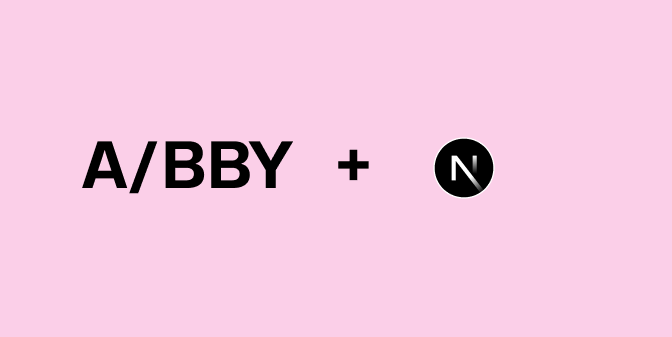
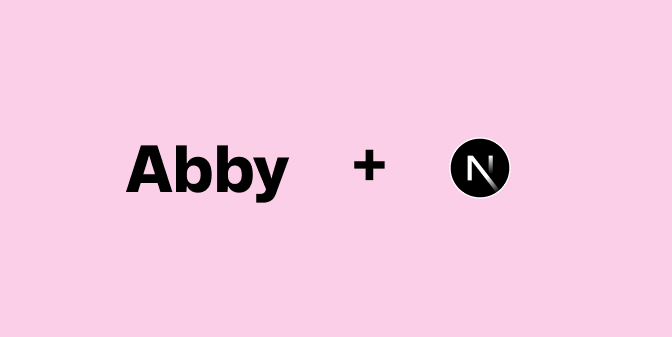
finish rebranding

Changed region(s): [[0.125, 0.4154, 0.4375, 0.6231], [0.625, 0.3858, 0.7812, 0.5935], [0.5, 0.4451, 0.5938, 0.5341]]

diff --git a/apps/web/src/seo/SeoDescriptions.ts b/apps/web/src/seo/SeoDescriptions.ts
@@ -20,39 +20,38 @@ export function getMarketingSeo(pageName: string): SeoProps {
   switch (normalizedKey) {
     case "/":
       return {
-        metaTitle:
-          "Open Source A/B Tests, Feature Flags and feature testing | Abby",
+        metaTitle: "Open Source Feature Flags and feature testing  | A/BBY ",
         metaDescription:
-          "Looking for a free and easy-to-implement A/B testing tool for developers? Check out our open-source software that includes feature flags and allows for fast and efficient feature testing. Start optimizing your website or application today!",
+          "Looking for a free and easy-to-implement feature flag tool for developers? Check out our open-source software for fast and efficient feature testing. Start optimizing your website or application today!",
       };
     case "/login":
       return {
-        metaTitle: "A/B Tests, Feature Flags and feature testing | Abby Log in",
+        metaTitle: "Feature Flags and feature testing  | A/BBY Log in",
         metaDescription:
-          "Log in to our free A/B testing tool designed specifically for developers. With open source software, it offers easy and fast implementation, allowing you to perform feature testings and utilize feature flags. Start optimizing your website or application with our free AB testing tool today.",
+          "Log in to our free feature flagging tool designed specifically for developers. With open source software, it offers easy and fast implementation, allowing you to perform feature testing and utilize feature flags. Start optimizing your website or application with our free tool today.",
       };
     case "/devtools":
       return {
         metaTitle:
           "Learn about A/B testing tools and feature flags | Abby Documentation",
         metaDescription:
-          "Learn about the implementation of A/B testing tools, open-source software that is easy and fast to implement. Discover how feature flags can help you with feature testing and explore various developer tools available for A/B testing purposes.",
+          "Learn about the implementation of A/BBYs, open-source software that is easy and fast to implement. Discover how feature flags can help you with feature testing and explore various developer tools.",
       };
     case "/imprint":
       return {
         metaTitle:
-          "A/B Tests, Feature Flags and feature testings | Abby Legal Information",
+          "Feature Flags and feature testings | A/BBY Legal Information",
         metaDescription:
-          "Official imprint of Abby, the open-source A/B testing tool. Find our legal information and get in touch. We offer feature flagging and ab testing solutions with clear analytics.",
+          "Official imprint of A/BBY, the open-source feature flagging  tool. Find our legal information and get in touch. We offer feature flagging and ab testing solutions with clear analytics.",
       };
-    case "/blog":
+    case "/tips-and-insights":
       return {
         metaTitle:
-          "A/B Tests, Feature Flags & feature testing | Abby Tips&Insights",
+          "Feature Flags & feature testing  | A/BBY Tips&Insights",
         metaDescription:
-          "Discover tips and insights about A/B testing tools, open-source software, feature flags, Next.js, and A/B testing in React. Learn how to effectively use these dev tools for feature testing and optimizing your software development process.",
+          "Discover tips and insights about open-source software, feature flags, Next.js, and A/B testing in React. Learn how to effectively use these dev tools for feature testing and optimizing your software development process.",
       };
-    case "/blog/a-b-react":
+    case "/tips-and-insights/a-b-react":
       return {
         metaTitle: "A/B Testing in React using Hooks | Abby Tips & Insights",
         metaDescription:
@@ -62,7 +61,7 @@ export function getMarketingSeo(pageName: string): SeoProps {
       return {
         metaTitle: "Q&A regarding Abby | Abby Contact",
         metaDescription:
-          "Contact Abby, an open-source A/B testing tool, for all your questions and needs related to A/B testing, feature flags, and feature testing. Optimize your software with confidence.",
+          "Contact A/BBY, an open-source feature flagging tool, for all your questions and needs related to feature flags, and feature testing. Optimize your software with confidence.",
       };
     case "/docs/integrations/react":
       return {
@@ -83,21 +82,21 @@ export function getMarketingSeo(pageName: string): SeoProps {
         metaDescription:
           "Integrating A/B tests like Abby with Next.js allows developers to effectively conduct feature testing and utilize feature flags. Discover the benefits and best practices for implementing Split tests and feature flags in Next.js.",
       };
-    case "/blog/a-b-nextjs":
+    case "/tips-and-insights/a-b-nextjs":
       return {
         metaTitle:
           "A/B Testing in Next.js using Edge Middleware | Abby Tips & Insights",
         metaDescription:
           "A/B testing in Next.js using edge middleware allows you to experiment and optimize your website by testing different versions of your content. Learn the tips and insights on how to effectively conduct A/B tests in Next.js using edge middleware with Abby.",
       };
-    case "/blog/abby-open-source":
+    case "/tips-and-insights/abby-open-source":
       return {
         metaTitle:
           "Open-Source A/B Test Transparency & Self-Hosted | Abby Tips&Insights",
         metaDescription:
           "Open-sourcing A/B tests and using feature flags for feature testing can improve transparency, collaboration, and self-hosting capabilities. Discover valuable tips and insights on implementing A/B tests and feature testing strategies with Abby.",
       };
-    case "/blog/feature-flags-next":
+    case "/tips-and-insights/feature-flags-next":
       return {
         metaTitle:
           "Using Feature Flags in Next.js Applications | Abby Tips & Insights",

diff --git a/apps/web/src/components/Pricing.tsx b/apps/web/src/components/Pricing.tsx
@@ -128,7 +128,7 @@ export function PricingTable() {
           features={[
             `${basePlan.eventsPerMonth.toLocaleString()} Events / month`,
             `${basePlan.tests} A/B Test`,
-            `${basePlan.flags} Feature Flags / Remote Config`,
+            `${basePlan.flags} Feature Flags / Remote Config Variables`,
             `${basePlan.environments} Environments`,
           ]}
         />
@@ -141,7 +141,7 @@ export function PricingTable() {
           features={[
             `${startupPlan.eventsPerMonth.toLocaleString()} Events / month`,
             `${startupPlan.tests} A/B Tests`,
-            `${startupPlan.flags} Feature Flags / Remote Config`,
+            `${startupPlan.flags} Feature Flags / Remote Config Variables`,
             `${startupPlan.environments} Environments`,
           ]}
           priceSuffix="/mo*"
@@ -156,7 +156,7 @@ export function PricingTable() {
           features={[
             `${proPlan.eventsPerMonth.toLocaleString()} Events / month`,
             `${proPlan.tests} A/B Tests`,
-            `${proPlan.flags} Feature Flags / Remote Config`,
+            `${proPlan.flags} Feature Flags / Remote Config Variables`,
             `${proPlan.environments} Environments`,
           ]}
           priceSuffix="/mo*"
@@ -171,7 +171,7 @@ export function PricingTable() {
           features={[
             "Unlimited Events / month",
             "Unlimited Tests",
-            "Unlimited Feature Flags",
+            "Unlimited Feature Flags / Remote Config Variables",
             "Unlimited Environments",
           ]}
         />

diff --git a/apps/web/src/utils/snippets.ts b/apps/web/src/utils/snippets.ts
@@ -62,12 +62,6 @@ export async function generateCodeSnippets({
     {
       projectId,
       currentEnvironment: "process.env.NODE_ENV",
-      tests: tests.reduce((acc, test) => {
-        acc[test.name] = {
-          variants: test.options.map((option) => option.identifier),
-        };
-        return acc;
-      }, {} as Record<string, any>),
       flags: flags
         .filter((flag) => flag.type === "BOOLEAN")
         .map((flag) => flag.name),
@@ -79,6 +73,12 @@ export async function generateCodeSnippets({
         }
         return acc;
       }, {} as Record<string, RemoteConfigValueString>),
+      tests: tests.reduce((acc, test) => {
+        acc[test.name] = {
+          variants: test.options.map((option) => option.identifier),
+        };
+        return acc;
+      }, {} as Record<string, any>),
     } as AbbyConfig,
     null,
     2

diff --git a/apps/web/src/pages/index.tsx b/apps/web/src/pages/index.tsx
@@ -127,6 +127,8 @@ const Home: NextPageWithLayout<
             src={abbyScreenshot}
             alt="Screenshot of Abby's Dashboard"
             className="mt-12 hidden w-10/12 rounded-xl border border-accent-background shadow-2xl md:block lg:max-w-5xl"
+            width={1920}
+            height={1080}
             priority
           />
         </div>
@@ -177,7 +179,7 @@ const Home: NextPageWithLayout<
             </Feature>
             <Feature
               icon={Shield}
-              title="The safe and reliable A/B testing tool"
+              title="The safe and reliable Feature Flagging tool"
               subtitle="Downtime Secure"
             >
               Abby ensures a stable testing environment. Abbys SDKs have built

diff --git a/apps/web/src/components/MarketingLayout.tsx b/apps/web/src/components/MarketingLayout.tsx
@@ -70,7 +70,7 @@ export function MarketingLayout({
               initial={{ opacity: 0 }}
               animate={{ opacity: 1 }}
               exit={{ opacity: 0 }}
-              className="fixed bottom-4 left-4 z-50 rounded-full bg-primary-background p-2 text-accent-background"
+              className="fixed bottom-4 left-4 z-50 hidden rounded-full bg-primary-background p-2 text-accent-background md:block"
               title="Scroll to top"
               onClick={() => {
                 window.scrollTo({ top: 0, behavior: "smooth" });
